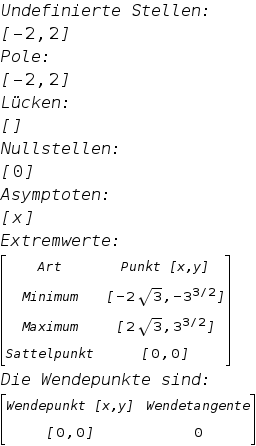
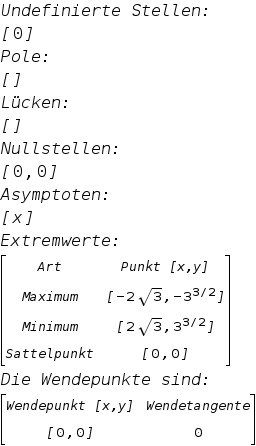
improved Pf02

diff --git a/index.html b/index.html
@@ -12,7 +12,6 @@
                             1415/03/Klepp_Jakob_H03.html
                         </a>
                     </li>
-                
                     <li>
                         <a href="1415/03/Klepp_Jakob_H03.wxm">
                             1415/03/Klepp_Jakob_H03.wxm
@@ -28,7 +27,6 @@
                             1415/04/Klepp_Jakob_S04.html
                         </a>
                     </li>
-                
                     <li>
                         <a href="1415/04/Klepp_Jakob_S04.wxm">
                             1415/04/Klepp_Jakob_S04.wxm
@@ -44,7 +42,6 @@
                             1415/05/Klepp_Jakob_H05.wxm
                         </a>
                     </li>
-                
                     <li>
                         <a href="1415/05/Klepp_Jakob_H05.html">
                             1415/05/Klepp_Jakob_H05.html
@@ -60,7 +57,6 @@
                             1415/06/Klepp_Jakob_H06.wxm
                         </a>
                     </li>
-                
                     <li>
                         <a href="1415/06/Klepp_Jakob_H06.html">
                             1415/06/Klepp_Jakob_H06.html
@@ -76,7 +72,6 @@
                             1415/07/Klepp_Jakob_H07.wxm
                         </a>
                     </li>
-                
                     <li>
                         <a href="1415/07/Klepp_Jakob_H07.html">
                             1415/07/Klepp_Jakob_H07.html
@@ -92,7 +87,6 @@
                             1415/08/Klepp_Jakob_H08.wxm
                         </a>
                     </li>
-                
                     <li>
                         <a href="1415/08/Klepp_Jakob_H08.html">
                             1415/08/Klepp_Jakob_H08.html
@@ -108,7 +102,6 @@
                             1415/12/Klepp_Jakob_H12.wxm
                         </a>
                     </li>
-                
                     <li>
                         <a href="1415/12/Klepp_Jakob_H12.html">
                             1415/12/Klepp_Jakob_H12.html
@@ -124,7 +117,6 @@
                             1415/13/Klepp_Jakob_H13.wxm
                         </a>
                     </li>
-                
                     <li>
                         <a href="1415/13/Klepp_Jakob_H13.html">
                             1415/13/Klepp_Jakob_H13.html
@@ -140,7 +132,6 @@
                             1415/14/Klepp_Jakob_H14.wxm
                         </a>
                     </li>
-                
                     <li>
                         <a href="1415/14/Klepp_Jakob_H14.html">
                             1415/14/Klepp_Jakob_H14.html
@@ -156,7 +147,6 @@
                             1415/PF01/Klepp_Jakob_Pf01.html
                         </a>
                     </li>
-                
                     <li>
                         <a href="1415/PF01/Klepp_Jakob_Pf01.wxm">
                             1415/PF01/Klepp_Jakob_Pf01.wxm
@@ -172,7 +162,6 @@
                             1415/PF02/Klepp_Jakob_Pf02.html
                         </a>
                     </li>
-                
                     <li>
                         <a href="1415/PF02/Klepp_Jakob_Pf02.wxm">
                             1415/PF02/Klepp_Jakob_Pf02.wxm
@@ -188,7 +177,6 @@
                             1415/PF08.1/Klepp_Jakob_Pf8.1.wxm
                         </a>
                     </li>
-                
                     <li>
                         <a href="1415/PF08.1/Klepp_Jakob_Pf8.1.html">
                             1415/PF08.1/Klepp_Jakob_Pf8.1.html
@@ -204,7 +192,6 @@
                             1415/PF13/Klepp_Jakob_Pf13.wxm
                         </a>
                     </li>
-                
                     <li>
                         <a href="1415/PF13/Klepp_Jakob_Pf13.html">
                             1415/PF13/Klepp_Jakob_Pf13.html
@@ -212,8 +199,6 @@
                     </li>
                 </ul>
             </li>
-
         </ul>
     </body>
 </html>
-

diff --git a/1415/PF02/Klepp_Jakob_Pf02.html b/1415/PF02/Klepp_Jakob_Pf02.html
@@ -93,7 +93,7 @@ Differenzenquotient -> Differentialquotient)
 
 <P><TABLE><TR><TD>
   <SPAN CLASS="prompt">
-(%i1) 
+(%i12) 
   </SPAN></TD>
   <TD><SPAN CLASS="input">
 kill(all);
@@ -677,7 +677,7 @@ Daher müssen alle Punkte gefunden an denen der Nenner 0 ist.
   </SPAN></TD>
   <TD><SPAN CLASS="input">
 solve(n,x)$<BR>
-ud:[rhs(%[1]),rhs(%[2])];
+ud:ud:makelist(rhs(%[i]), i, length(%));
   </SPAN></TD>
 </TR></TABLE>
   <BR>
@@ -748,7 +748,7 @@ Man erkennt sie daran das der Zähler 0 ist der Nener aber nicht.
   </SPAN></TD>
   <TD><SPAN CLASS="input">
 solve(z,x)$<BR>
-z0:[rhs(%[1])];
+z0:ud:makelist(rhs(%[i]), i, length(%));
   </SPAN></TD>
 </TR></TABLE>
   <BR>
@@ -1071,7 +1071,7 @@ und in die Variable exerg speichern.
 mima:[];<BR>
 for i:1 step 1 thru length(extremX) do<BR>
 &nbsp;&nbsp;&nbsp;&nbsp;if (fII(extremX[i])=0) then mima:append(mima,["Sattelpunkt"])<BR>
-&nbsp;&nbsp;&nbsp;&nbsp;elseif (fII(extremX[i])>0) then mima:append(mima, ["Maximum"])<BR>
+&nbsp;&nbsp;&nbsp;&nbsp;elseif (fII(extremX[i])<0) then mima:append(mima, ["Maximum"])<BR>
 &nbsp;&nbsp;&nbsp;&nbsp;else mima:append(mima, ["Minimum"]);
   </SPAN></TD>
 </TR></TABLE>
@@ -1148,7 +1148,9 @@ in den Zähler der Funktion einsetzt. (man bekommt den y Wert)
 
 <P CLASS="comment">
 Nullstelle bilden, hier verwende ich realroots um keine<BR>
-imaginären Nullstellen zu bekommen
+imaginären Nullstellen zu bekommen<BR>
+<BR>
+Wenn realroots Probleme bereitet kann auch solve(fII(x), x) verwendet werden
 </P>
 
 
@@ -1222,7 +1224,23 @@ Der x- und y- und k-Wert in allgemeine Geradengleichung(y=k*x+d) eingesetzt <BR>
 (%i36) 
   </SPAN></TD>
   <TD><SPAN CLASS="input">
-wendeTang:makelist(fI(wendeX[i]) * x + wendeX[i], i, length(wendeX));
+ks:makelist(<BR>
+&nbsp;&nbsp;&nbsp;&nbsp;fI(wendeX[i]), <BR>
+i, length(wendeX));<BR>
+ds:makelist(<BR>
+&nbsp;&nbsp;&nbsp;&nbsp;rhs(<BR>
+&nbsp;&nbsp;&nbsp;&nbsp;&nbsp;&nbsp;&nbsp;&nbsp;solve(<BR>
+&nbsp;&nbsp;&nbsp;&nbsp;&nbsp;&nbsp;&nbsp;&nbsp;&nbsp;&nbsp;&nbsp;&nbsp;subst([k=ks[i], x=wendeX[i], y=wendeY[i]], y=k*x+d), d<BR>
+&nbsp;&nbsp;&nbsp;&nbsp;&nbsp;&nbsp;&nbsp;&nbsp;)[1]<BR>
+&nbsp;&nbsp;&nbsp;&nbsp;),<BR>
+i, length(wendeX));<BR>
+wendeTang:makelist(<BR>
+subst([<BR>
+&nbsp;&nbsp;&nbsp;&nbsp;k=ks[i],<BR>
+&nbsp;&nbsp;&nbsp;&nbsp;d=ds[i]<BR>
+],<BR>
+k*x + d<BR>
+), i, length(wendeX));
   </SPAN></TD>
 </TR></TABLE>
   <BR>
@@ -1243,7 +1261,7 @@ Ausgabe der Wendepunkte
 
 <P><TABLE><TR><TD>
   <SPAN CLASS="prompt">
-(%i37) 
+(%i39) 
   </SPAN></TD>
   <TD><SPAN CLASS="input">
 wende_erg: matrix(["Wendepunkt [x,y]", "Wendetangente"])$<BR>
@@ -1270,7 +1288,7 @@ disp("Die Wendepunkte sind:",wende_erg)$
 
 <P><TABLE><TR><TD>
   <SPAN CLASS="prompt">
-(%i40) 
+(%i42) 
   </SPAN></TD>
   <TD><SPAN CLASS="input">
 disp("Undefinierte Stellen: ", ud)$<BR>
@@ -1290,7 +1308,7 @@ disp("Die Wendepunkte sind:",wende_erg)$
 
 <P><TABLE><TR><TD>
   <SPAN CLASS="prompt">
-(%i45) 
+(%i47) 
   </SPAN></TD>
   <TD><SPAN CLASS="input">
 vertical_line(x):=polygon([x, x],[-9000, 9000]);
@@ -1306,7 +1324,7 @@ vertical_line(x):=polygon([x, x],[-9000, 9000]);
 
 <P><TABLE><TR><TD>
   <SPAN CLASS="prompt">
-(%i46) 
+(%i48) 
   </SPAN></TD>
   <TD><SPAN CLASS="input">
 wxdraw2d(<BR>
@@ -1367,7 +1385,7 @@ makelist(explicit(wendeTang[i], x, -7, 7), i, length(wendeTang))<BR>
 
 <P><TABLE><TR><TD>
   <SPAN CLASS="prompt">
-(%i47) 
+(%i49) 
   </SPAN></TD>
   <TD><SPAN CLASS="input">
 kill(all);

diff --git a/create_index.py b/create_index.py
@@ -9,14 +9,28 @@ TEMPLATE_START = """<!DOCTYPE html>
     <head>
     </head>
     <body>
-        <ul>
-"""
+        <ol>"""
+
+DIR_START = """
+            <li>
+                {path}
+                <ul>"""
+
+FILE = """
+                    <li>
+                        <a href="{f}">
+                            {f}
+                        </a>
+                    </li>"""
+
+DIR_END = """
+                </ul>
+            </li>"""
 
 TEMPLATE_END = """
-        </ul>
+        </ol>
     </body>
-</html>
-"""
+</html>"""
 
 
 def sub_dirs(path):
@@ -37,27 +51,16 @@ def sub_files(paths):
             if f.is_file() and str(f)[-4:] in ('html', '.wxm'):
                 relevant.append(f)
         if len(relevant) > 0:
-            html += '            <li>\n'
-            html += '                ' + str(path)
-            html += '\n                <ul>'
+            html += DIR_START.format(path=path)
             for r in relevant:
-                html += """
-                    <li>
-                        <a href="{f}">
-                            {f}
-                        </a>
-                    </li>
-                """.format(f=str(r))
-            html += '</ul>\n'
-            html += '            </li>\n'
+                html += FILE.format(f=str(r))
+            html += DIR_END
     return html
 
 
 if __name__ == '__main__':
     path = Path('.')
     paths = sub_dirs(path)
-    #print(paths)
     paths = sorted(paths)
-    #print(paths)
     tree = sub_files(paths)
     print(TEMPLATE_START + tree + TEMPLATE_END)
